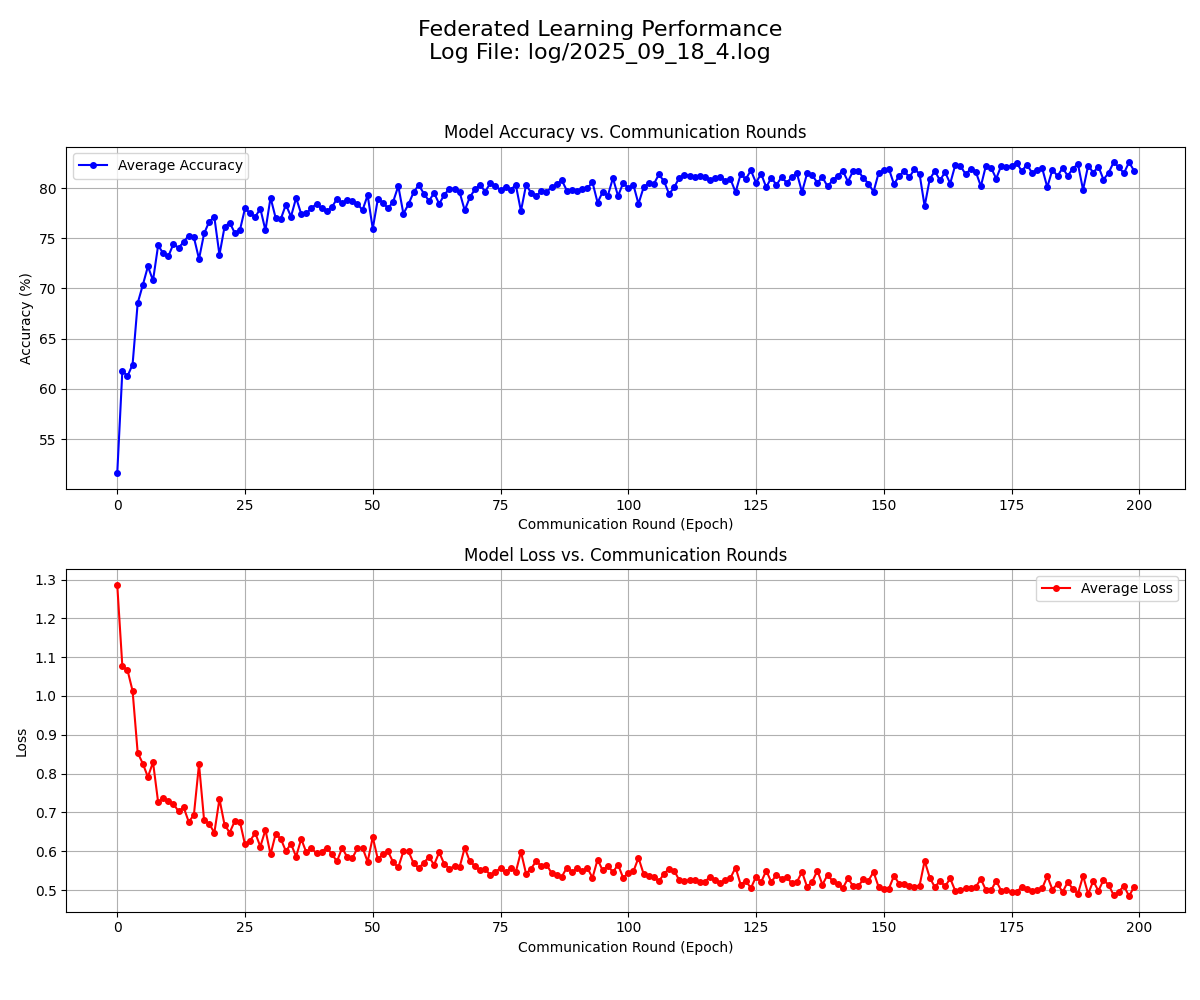
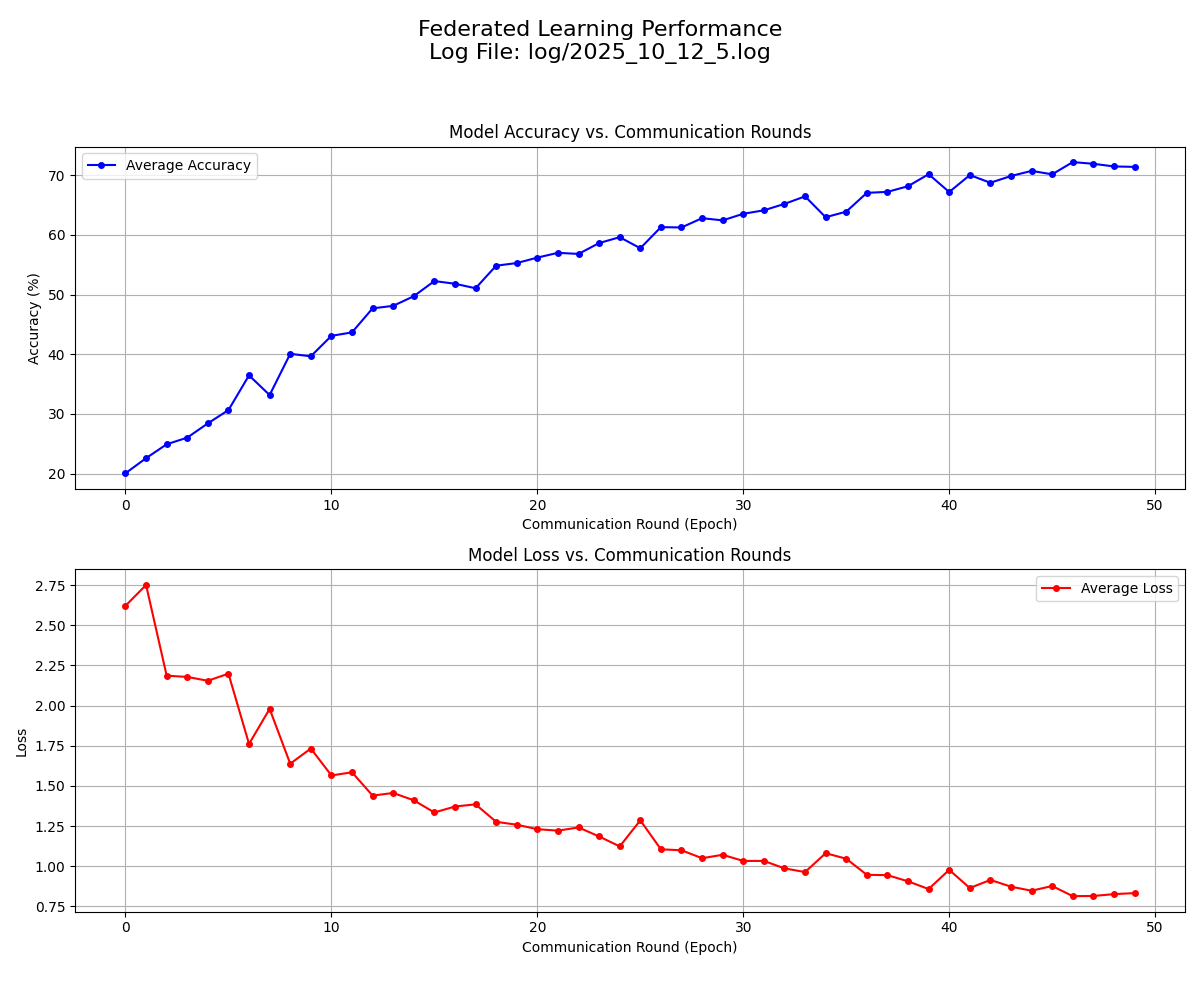
更改参数

diff --git a/client/clients.py b/client/clients.py
@@ -148,9 +148,28 @@ class Client:
 
 class BaseClient(Client):
     
-    def train(self, epoch: int):    
-        cal = self.trainer(self.model,self.dataloader,torch.nn.CrossEntropyLoss(),self.args)
-        ret_list = cal.train(self.args.get('num_steps'))
+    def train(self, epoch: int):
+        # 1. 从配置中获取初始学习率和衰减参数
+        initial_lr = self.args.get('lr', 0.001)
+        lr_decay_step = self.args.get('lr_decay_step', 1000)
+        lr_decay_rate = self.args.get('lr_decay_rate', 1.0)
+
+        # 2. 根据当前通信轮数 (epoch) 计算衰减次数
+        decay_count = epoch // lr_decay_step
+
+        # 3. 计算当前轮的实际学习率
+        current_lr = initial_lr * (lr_decay_rate ** decay_count)
+
+        # 4. 复制一份参数字典，用于本轮训练
+        train_args_for_this_round = self.args.copy()
+        train_args_for_this_round['lr'] = current_lr
+
+        if epoch > 0 and epoch % lr_decay_step == 0:
+            logger.info(f"Client {self.client_id} Learning Rate decayed to {current_lr} at epoch {epoch}")
+
+        # 5. 将包含“新”学习率的参数字典传递给Trainer
+        cal = self.trainer(self.model,self.dataloader,torch.nn.CrossEntropyLoss(),train_args_for_this_round)
+        ret_list = cal.train(self.args.get('local_epochs', 1))
         
         self.show_train_result(epoch, ret_list)
         return

diff --git a/dataset/CIFAR10.py b/dataset/CIFAR10.py
@@ -1,11 +1,19 @@
+# dataset/CIFAR10.py (完整替换)
+
 from torchvision import datasets, transforms
 from config.dataset import dataset_file_path
 
 def get_cifar10(train:bool = True):
+    # CIFAR10 数据集的标准均值和标准差
+    normalize = transforms.Normalize(mean=[0.4914, 0.4822, 0.4465],
+                                     std=[0.2023, 0.1994, 0.2010])
+
     return datasets.CIFAR10(root = dataset_file_path,
                                 train = train,
                                 download = True,
-                                transform = transforms.Compose([transforms.RandomCrop(32,padding=4),
-                                                              transforms.RandomHorizontalFlip(),
-                                                              transforms.ToTensor(),]))
-    
+                                transform = transforms.Compose([
+                                    transforms.RandomCrop(32,padding=4),
+                                    transforms.RandomHorizontalFlip(),
+                                    transforms.ToTensor(),
+                                    normalize,  # <-- 在这里新增归一化
+                                ]))

diff --git a/config/benchmark.py b/config/benchmark.py
@@ -58,21 +58,24 @@ class CIFAR10(BenchMark):
         super(CIFAR10,self).__init__('CIFAR10')
         self.global_args = {
             'client_num': 10,
-            'model': 'resnet50',
+            'model': 'resnet18',
             'dataset': 'CIFAR10',
-            'batch_size': 32,
+            'batch_size': 64,
             'class_num': 10,
             'data_folder': './data',
-            'communication_round': 10,
+            'communication_round': 200,
             'non-iid': False,
             'alpha': 1,
         }
         self.train_args = {
             'optimizer': 'SGD',
             'device': 'cuda',
-            'lr': 1e-2,
-            'weight_decay': 1e-5,  
-            'num_steps': 1,
+            'lr': 0.1,
+            'momentum': 0.9,
+            'weight_decay': 5e-4,
+            'local_epochs': 5,
+            'lr_decay_step': 15,  # 每 15 轮衰减一次
+            'lr_decay_rate': 0.1,  # 每次衰减为原来的 0.1 倍
         }
         self.algorithm = FedAvg()
         

diff --git a/task.py b/task.py
@@ -417,7 +417,7 @@ class Task:
                 }
 
                 BYZANTINE_CLIENT_NUM_F=2;
-                AGGREGATION_STRATEGY = 'trimmed_mean'
+                AGGREGATION_STRATEGY = 'fedavg'
                 self.server.upload_model(encrypted_package,byzantine_client_num=BYZANTINE_CLIENT_NUM_F,strategy=AGGREGATION_STRATEGY)
 
                 client.test(epoch=i)

diff --git a/plot_results.py b/plot_results.py
@@ -5,7 +5,7 @@ import os
 
 # --- 配置 ---
 # 请将下面的文件名替换为您上一步找到的、最新的那个日志文件名
-LOG_FILE = 'log/2025_09_18_4.log'
+LOG_FILE = 'log/2025_10_12_5.log'
 # ---
 
 def parse_log_file(file_path):
